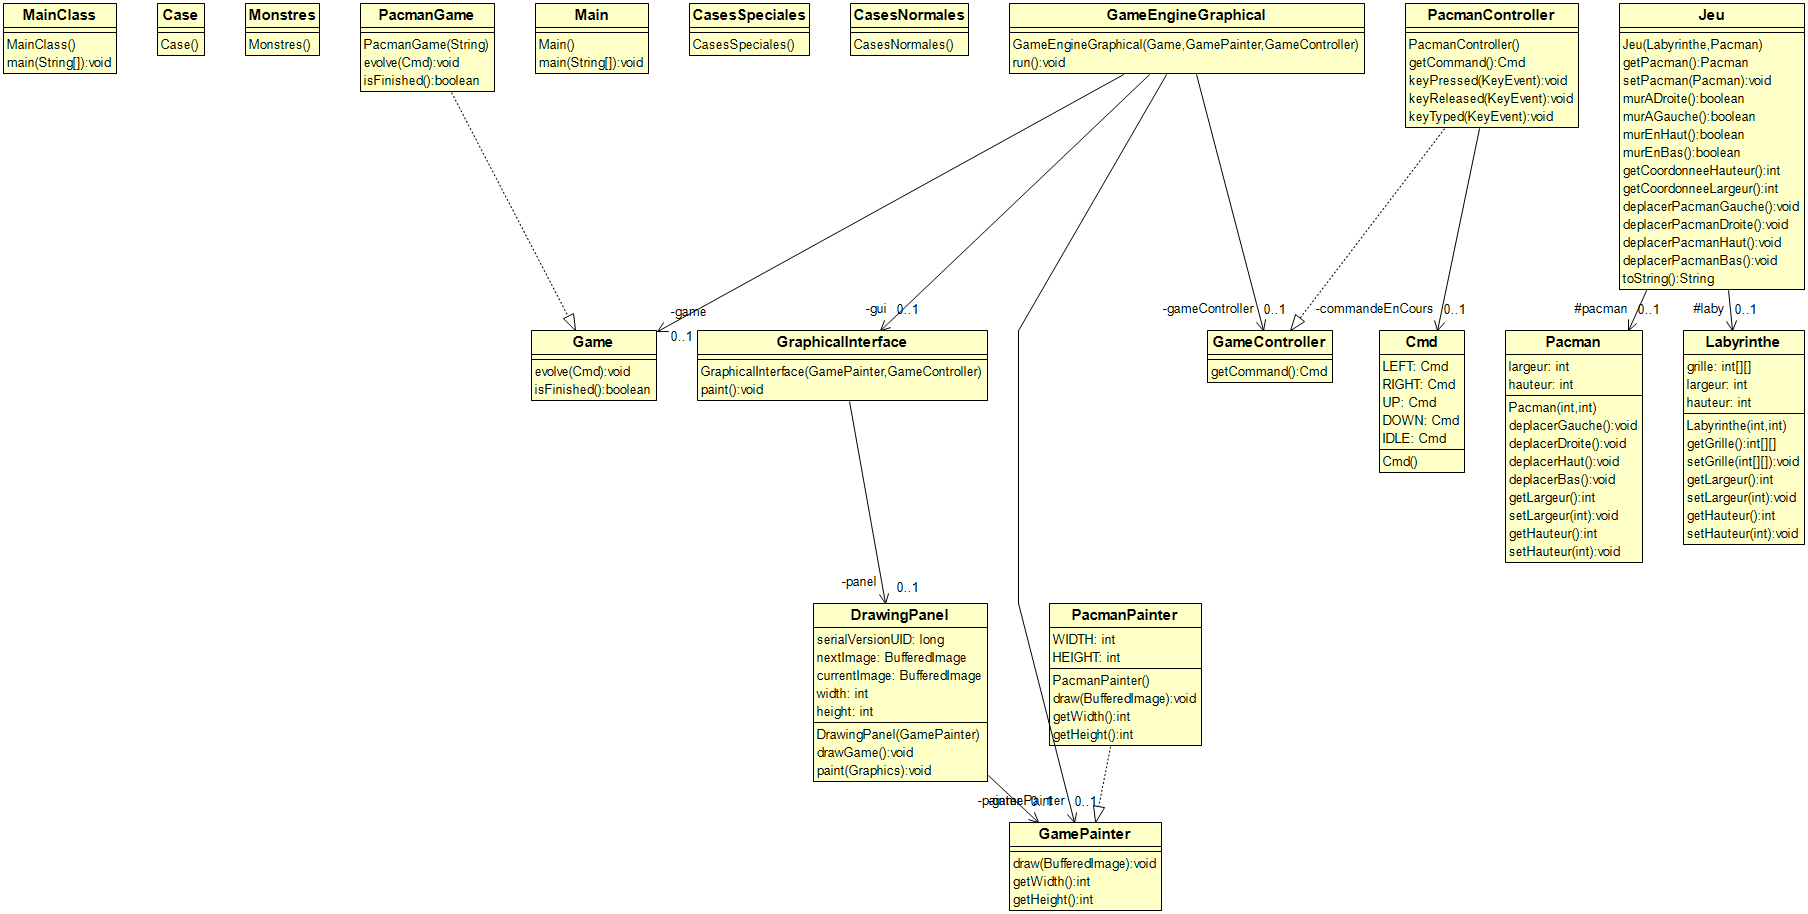
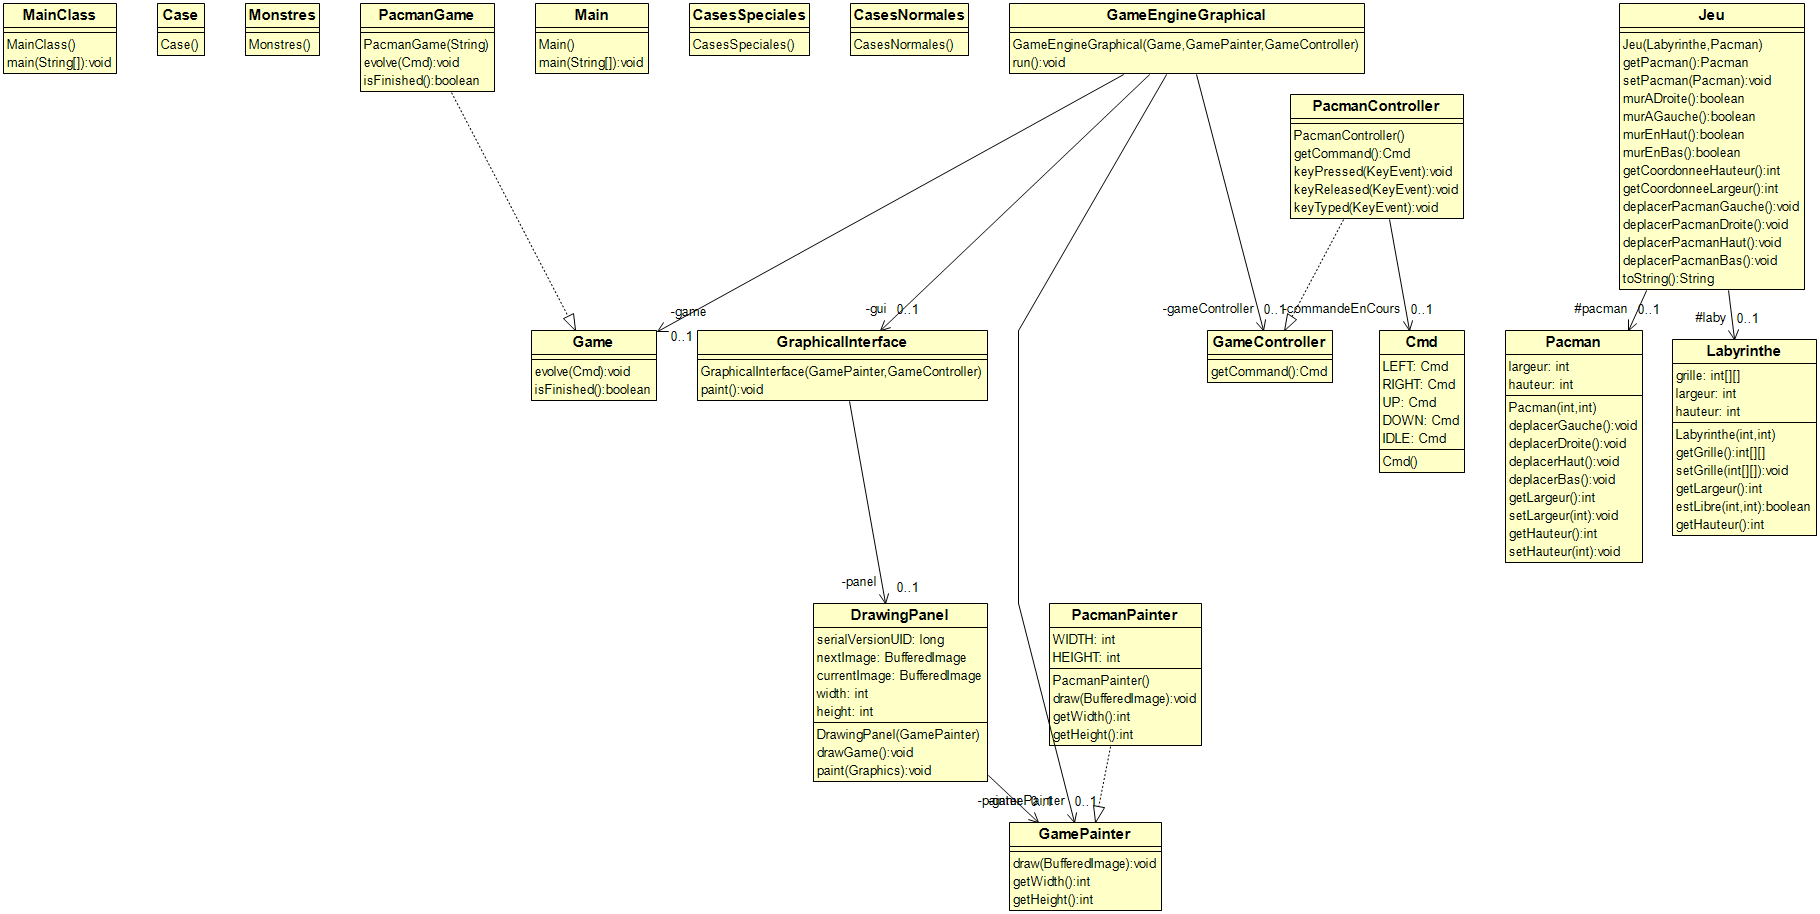
Ajout du moteur graphique

diff --git a/pacman/carte/Labyrinthe.java b/pacman/carte/Labyrinthe.java
@@ -35,10 +35,14 @@ public class Labyrinthe {
 		return largeur;
 	}
 
-
-	public void setLargeur(int largeur) {
-		this.largeur = largeur;
+	public boolean estLibre(int largeur, int hauteur){
+		if (!(largeur < this.largeur) || !(hauteur < this.hauteur)){
+			return false;
+		}else{
+			return true;
+		}
 	}
+	
 
 
 	public int getHauteur() {
@@ -46,8 +50,5 @@ public class Labyrinthe {
 	}
 
 
-	public void setHauteur(int hauteur) {
-		this.hauteur = hauteur;
-	}
 
 }

diff --git a/pacman/modele/Jeu.java b/pacman/modele/Jeu.java
@@ -21,6 +21,7 @@ public class Jeu {
 		this.pacman = pacman;
 	}
 	
+	
 	public boolean murADroite(){
 		return (pacman.getLargeur()==laby.getLargeur()-1);
 	}
